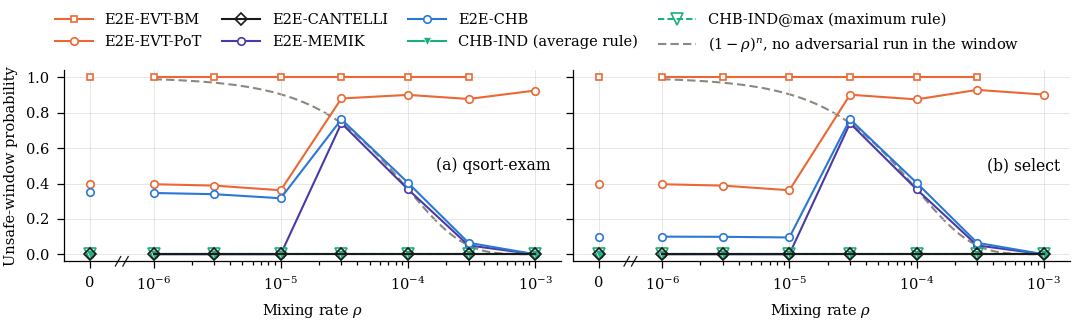
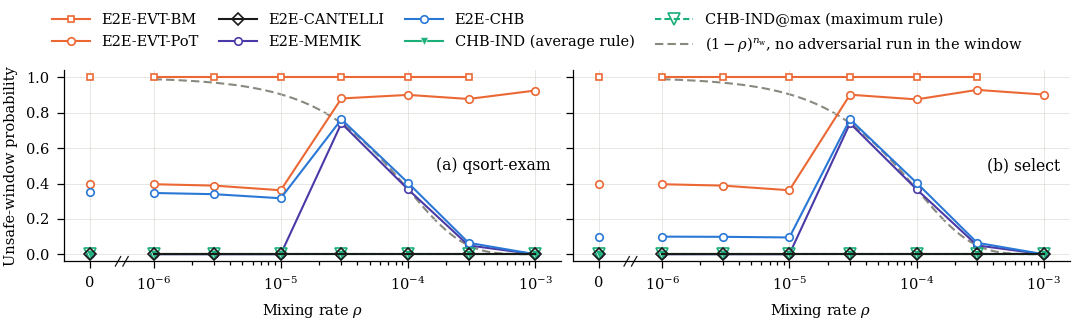
Label the window size of the mixing-rate figure as n_w
The dashed curve of the figure is (1 - rho)^n_w, the probability that a
training window of n_w runs holds no adversarial run. The legend wrote n,
which the paper uses for the estimation samples of its finite-sample
theorem. The figure is regenerated with the new legend, and its values
are unchanged.

Changed region(s): [[0.2151, 0.0303, 0.9525, 0.1515], [0.6145, 0.0303, 0.8911, 0.0909], [0.0615, 0.0303, 0.1844, 0.1515]]

diff --git a/tools/fig_mixing.py b/tools/fig_mixing.py
@@ -2,11 +2,11 @@
 """Unsafe-window probability at p = 1e-5 versus the mixing rate rho (X3 sweep), qsort-exam and select.
 
 The values are those of results/tables/x3_mixing_<kernel>.md, computed by tools/x3_summary.py, namely the share
-of the training windows (n = 1e4 runs, K ~ Binom(n, rho) of them adversarial) whose estimate lies below the
+of the training windows (n_w = 1e4 runs, K ~ Binom(n_w, rho) of them adversarial) whose estimate lies below the
 quantile of the mixture, among the windows with an estimate, at the eight rates of the table. rho = 0 sits at its
 own tick left of the log axis and is not joined to the line. E2E-EVT-BM is drawn where at least 1 % of the
 windows have an estimate, that is every rate except 1e-3. E2E-CANTELLI, CHB-IND and CHB-IND@max are 0 at every
-rate, so their lines overlap on the zero line. The dashed grey curve is (1 - rho)^n, the probability that a window
+rate, so their lines overlap on the zero line. The dashed grey curve is (1 - rho)^n_w, the probability that a window
 holds no adversarial run.
 
     .venv/bin/python tools/fig_mixing.py [--out results/figs/mixing.pdf]
@@ -55,7 +55,7 @@ def main():
         r, k, est = xs.load(b, [f"results/x3/x3_{b}.json"])
         refs = [xs.mixture_ref(r, k, rho, float(P)) for rho in rhos]
         ax.plot(grid, (1 - grid) ** xs.N, color=MUTED, lw=1.0, ls=(0, (4, 2)), zorder=1,
-                label=r"$(1-\rho)^{n}$, no adversarial run in the window")
+                label=r"$(1-\rho)^{n_{\mathrm{w}}}$, no adversarial run in the window")
         rows = []
         for m in METHODS:
             res = [xs.unsafe_prob(est[m], ref, rho, P) for ref, rho in zip(refs, rhos)]
